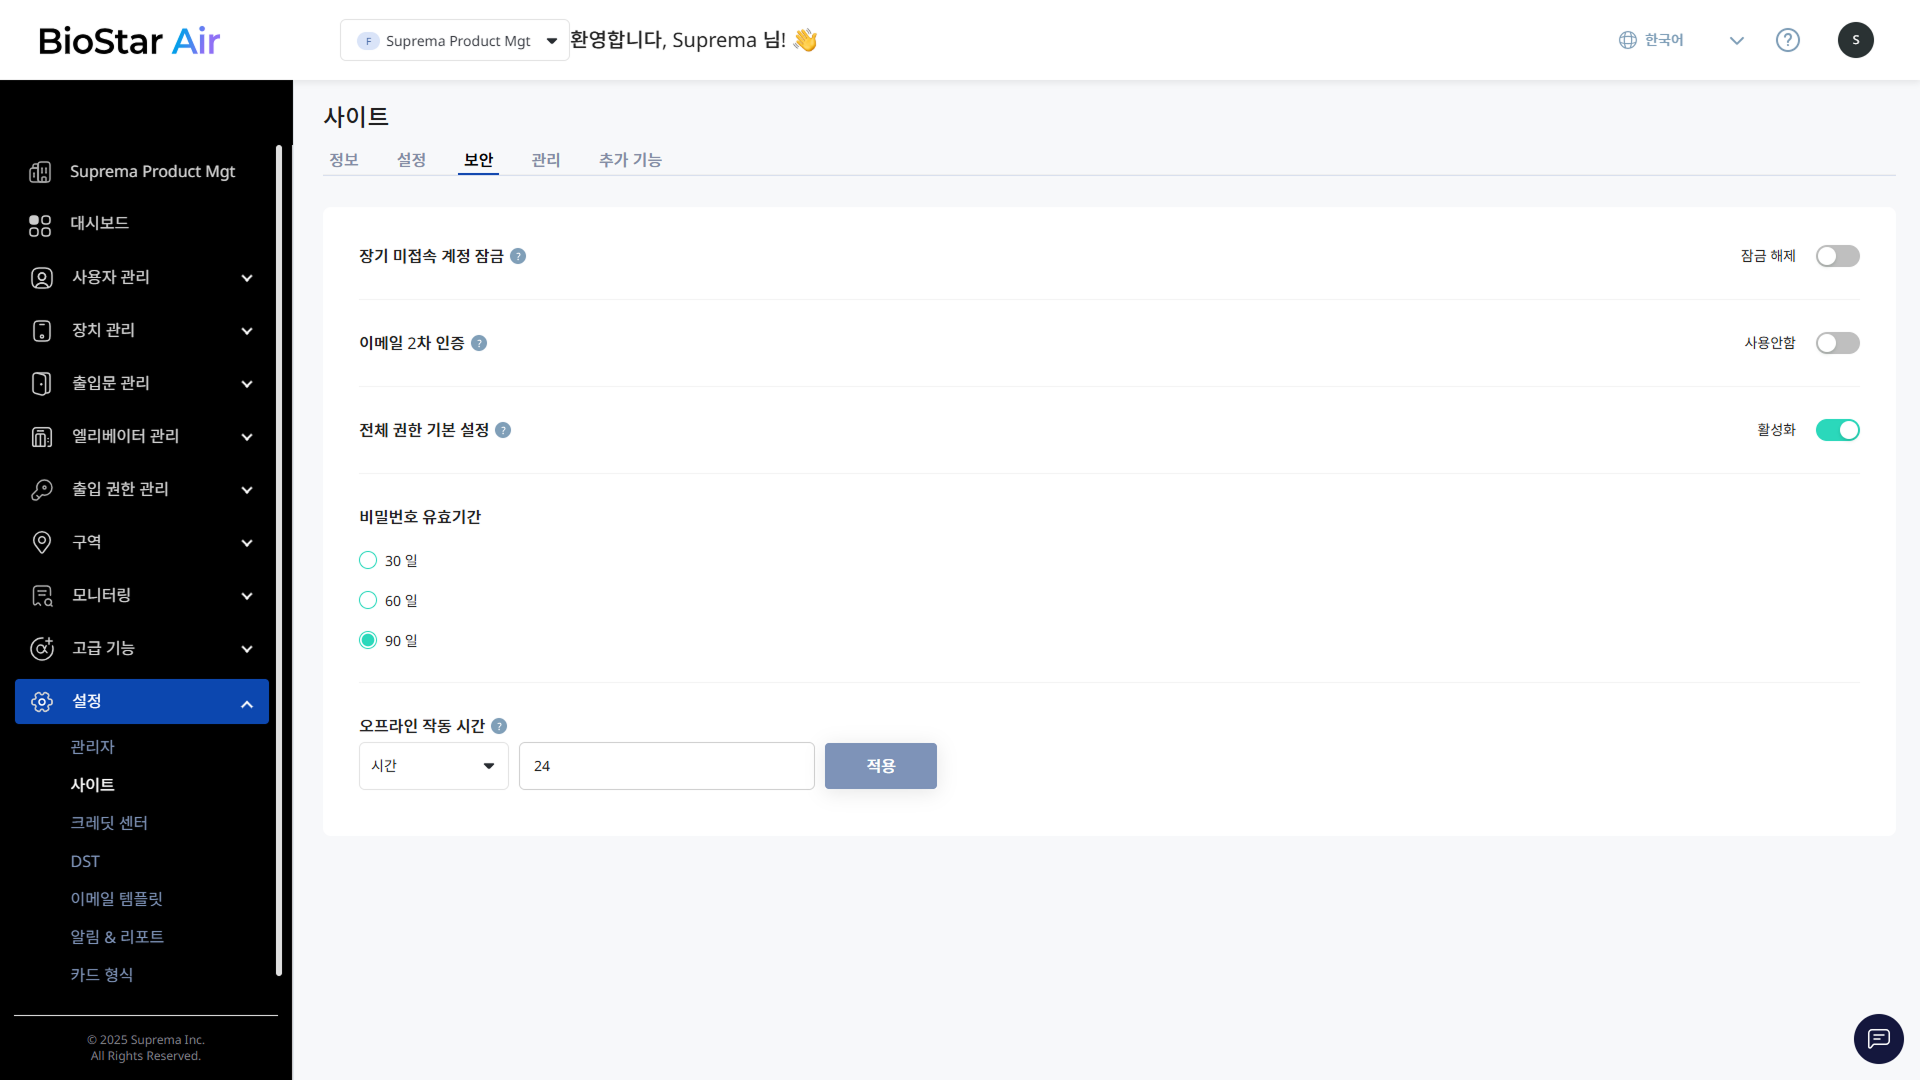
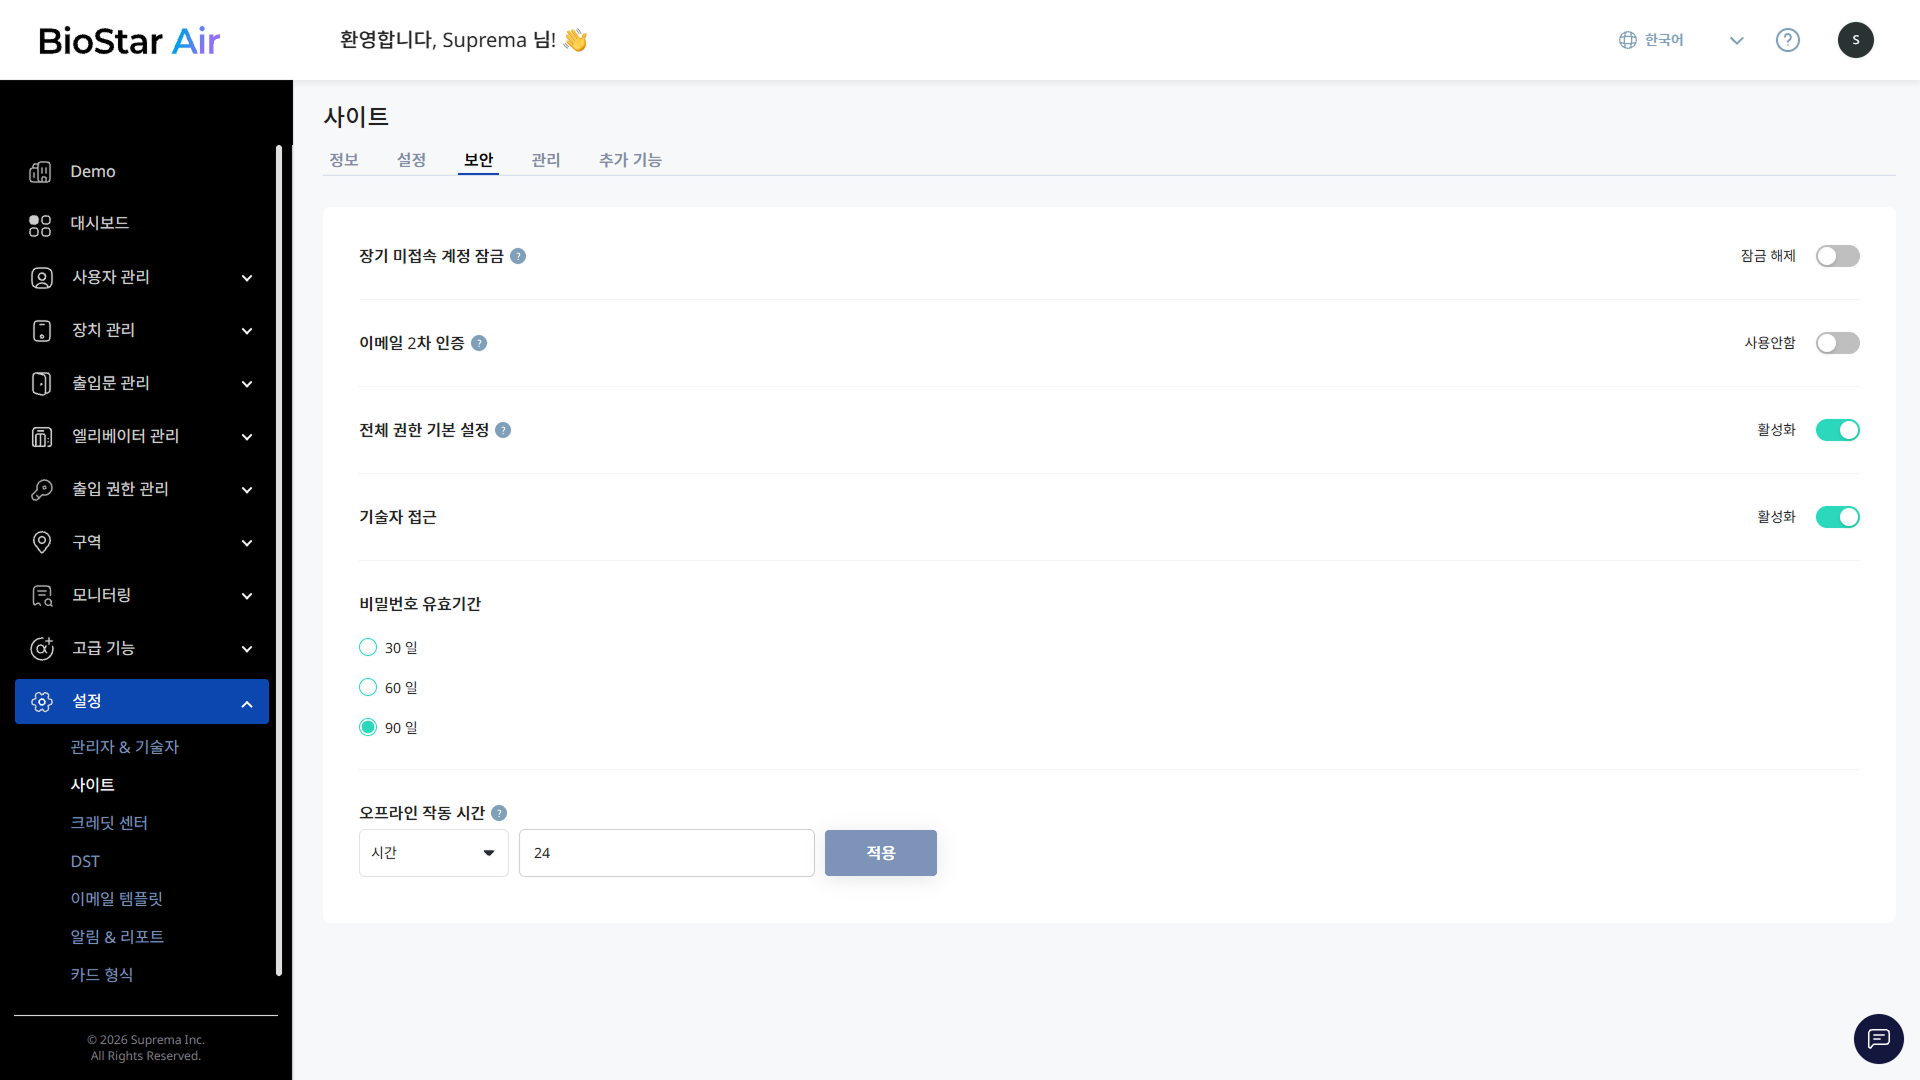
AB#178: air 포털 관리자 & 기술자 설정 문서 추가

diff --git a/sidebars.js b/sidebars.js
@@ -1,5 +1,7 @@
 // @ts-check
 
+import { type } from 'os';
+
 // This runs in Node.js - Don't use client-side code here (browser APIs, JSX...)
 
 /**
@@ -286,6 +288,7 @@ function createSidebars(preview) {
                 'platform/biostar_air/site-security-settings',
                 'platform/biostar_air/site-additional-settings',
                 'platform/biostar_air/managing-administrators',
+                'platform/biostar_air/managing-technician',
                 'platform/biostar_air/account-settings'
               ]
             },
@@ -318,8 +321,18 @@ function createSidebars(preview) {
           items: [
             'platform/biostar_air/biostar-air-partner-portal-detailed-use',
             'platform/biostar_air/federated-sites',
-            'platform/biostar_air/technician-access',
-            'platform/biostar_air/assign-technician',
+            {
+              type: 'category',
+              label: '파트너 기술자 관리하기',
+              link: {
+                type: 'doc',
+                id: 'platform/biostar_air/technician-overview',
+              },
+              items: [
+                'platform/biostar_air/technician-access',
+                'platform/biostar_air/assign-technician',
+              ]
+            },
             {
               type: 'category',
               label: '하드웨어 설치하기',
